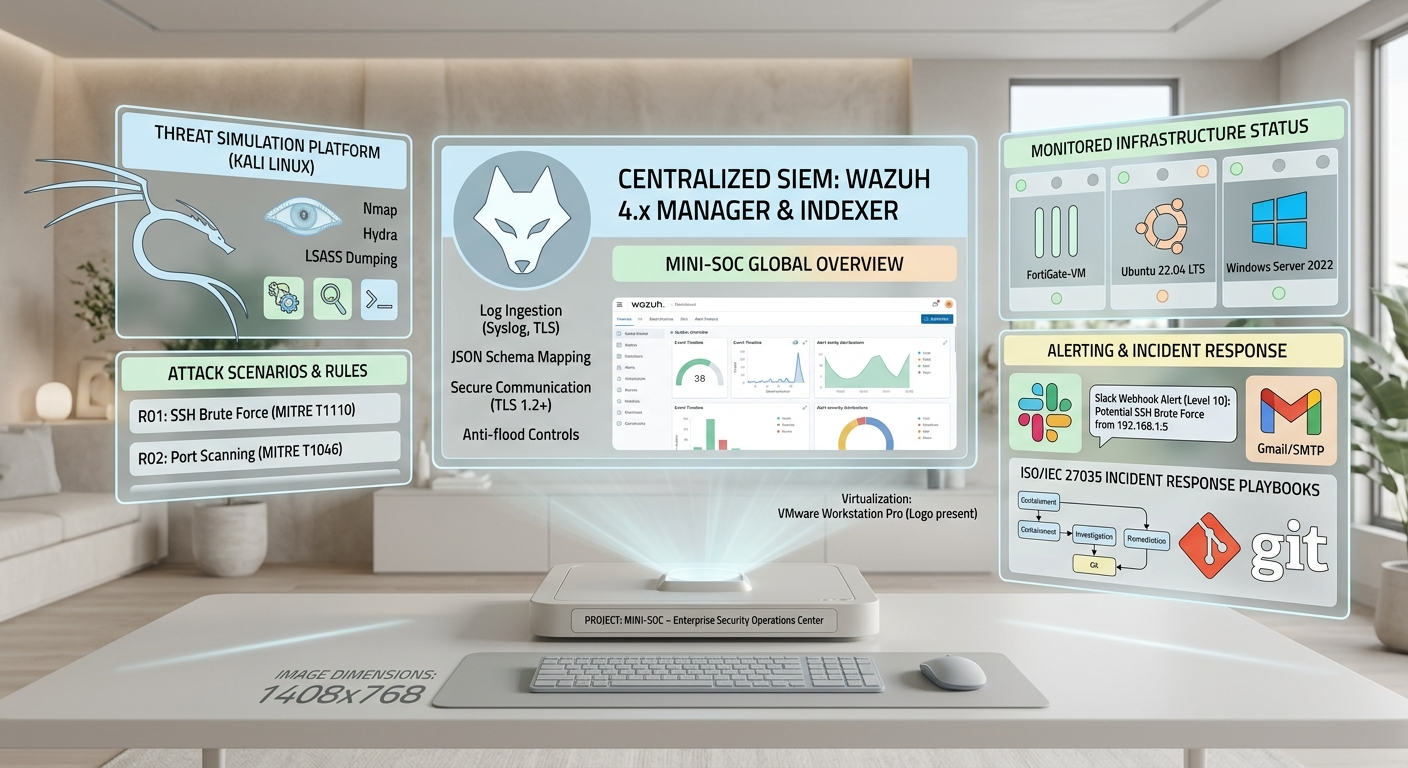
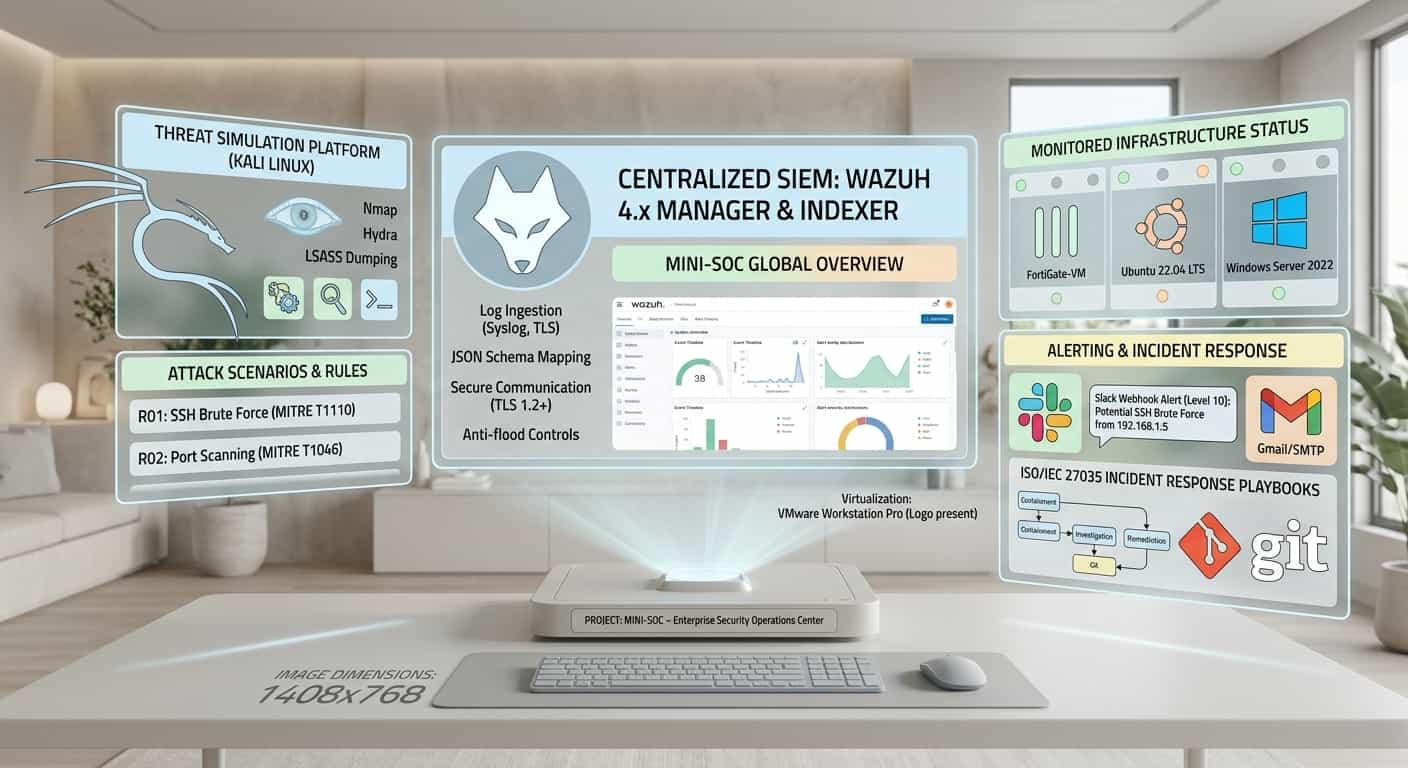
compress imag

diff --git a/index.html b/index.html
@@ -54,7 +54,7 @@
                     <div class="col-lg-8 order-lg-1 order-2">
                         <div class="hero-content">
                             <div class="hero-badge">
-                                <i class="fas fa-shield-alt me-2"></i>Network & Security Engineer
+                                <i class="fas fa-shield-alt me-2"></i>Network & Security Technician
                             </div>
                             <h1 class="hero-title">
                                 Hi, I'm <span class="text-gradient">Rachid Bouselama</span>
